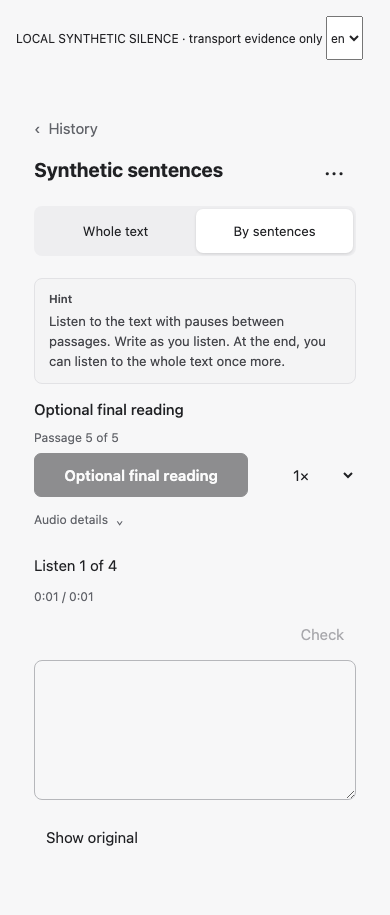
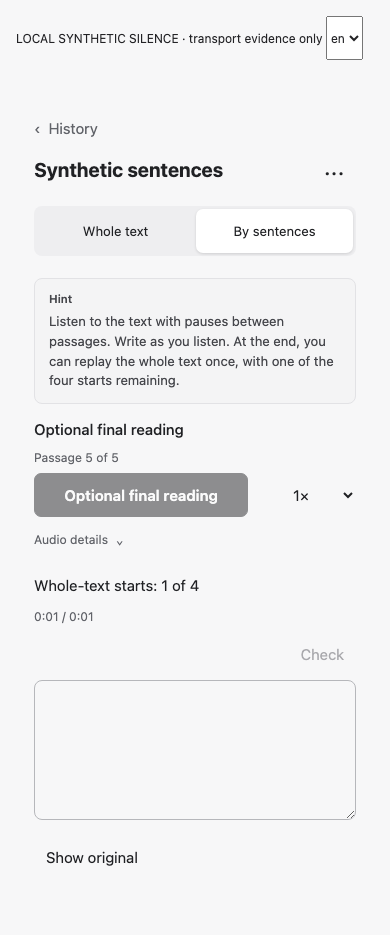
Review dictation playback copy and checked-state controls with real-media coverage

diff --git a/web/tests/dictation_policy_browser.py b/web/tests/dictation_policy_browser.py
@@ -10,7 +10,7 @@ repo=Path(__file__).resolve().parents[2]
 out=repo/'docs/evidence/dictation-focused-ux/policy'
 out.mkdir(parents=True,exist_ok=True)
 with tempfile.TemporaryDirectory(prefix='dictation-policy-') as tmp:
- env=dict(os.environ,GOCACHE='/private/tmp/dictation-playback-go-cache',DICTATION_PLAYBACK_BRIDGE=tmp)
+ env=dict(os.environ,DICTATION_PLAYBACK_BRIDGE=tmp)
  binary=Path(tmp)/'fixture.test'
  subprocess.run(['go','test','-c','-o',str(binary)],cwd=repo/'server',env=env,check=True,capture_output=True)
  def start():
@@ -73,6 +73,23 @@ with tempfile.TemporaryDirectory(prefix='dictation-policy-') as tmp:
    page.wait_for_function("events.some(e=>e.event==='ended')")
    assert len([c for c in page.evaluate('calls') if c['path'].endswith('/check')])==0
    create('network');page.get_by_role('button',name='Prepare audio',exact=True).click();abort_media=True;page.get_by_role('button',name='Play',exact=True).click();expect(page.get_by_role('button',name='Continue',exact=True)).to_be_visible();before=state('network')['playback']['active']['id'];page.get_by_role('button',name='Continue',exact=True).click();assert state('network')['playback']['active']['id']==before;page.wait_for_function("events.some(e=>e.event==='ended')");assert state('network')['playback']['whole_starts']==1
+   create('paused');page.get_by_role('button',name='Prepare audio',exact=True).click()
+   expect(page.get_by_role('button',name='Play',exact=True)).to_be_enabled()
+   paid_before=page.evaluate("calls.filter(c=>c.method==='POST'&&c.path.includes('/audio/')).length")
+   page.get_by_role('button',name='Play',exact=True).click();page.wait_for_function('fixtureAudio.currentTime>.1')
+   paused_id=state('paused')['playback']['active']['id'];page.evaluate('fixtureAudio.pause()')
+   paused_time=page.evaluate('fixtureAudio.currentTime');page.wait_for_timeout(200)
+   assert page.evaluate('fixtureAudio.currentTime')==paused_time
+   expect(page.get_by_role('button',name='Continue',exact=True)).to_be_visible()
+   draft=page.get_by_role('textbox',name='What you heard',exact=True);draft.fill('Pause recovery draft')
+   page.get_by_role('button',name='Continue',exact=True).click();draft.focus()
+   assert state('paused')['playback']['active']['id']==paused_id
+   page.wait_for_function("events.some(e=>e.event==='ended')");expect(draft).to_be_focused()
+   assert state('paused')['playback']['whole_starts']==1
+   page.get_by_role('button',name='History',exact=True).click()
+   page.get_by_role('button',name='Synthetic paused · In progress',exact=True).click()
+   expect(page.get_by_role('textbox',name='What you heard',exact=True)).to_have_value('Pause recovery draft')
+   assert page.evaluate("calls.filter(c=>c.method==='POST'&&c.path.includes('/audio/')).length")==paid_before
    create('sentences');page.get_by_role('button',name='By sentences',exact=True).click();page.get_by_role('button',name='Prepare audio',exact=True).click()
    expect(page.get_by_role('button',name='Play',exact=True)).to_be_enabled()
    prepared=page.evaluate("calls.filter(c=>c.method==='POST'&&c.path.includes('/audio/')).length")

diff --git a/server/dictation_shipping_test.go b/server/dictation_shipping_test.go
@@ -1,0 +1,46 @@
+package main
+
+import (
+	"net/http/httptest"
+	"os"
+	"regexp"
+	"strings"
+	"testing"
+)
+
+// Exercise the served module graph, not merely the root allowlist string.
+func TestDictationServedModuleGraph(t *testing.T) {
+	h := authHandler(t)
+	docker, err := os.ReadFile("Dockerfile")
+	if err != nil {
+		t.Fatal(err)
+	}
+	imports := regexp.MustCompile(`(?:from\s*|import\s*\()\s*['"]\./([^'"]+\.mjs)['"]`)
+	queue := []string{"dictation.mjs", "dictation.css"}
+	seen := map[string]bool{}
+	for len(queue) > 0 {
+		name := queue[0]
+		queue = queue[1:]
+		if seen[name] {
+			continue
+		}
+		seen[name] = true
+		w := httptest.NewRecorder()
+		h.ServeHTTP(w, httptest.NewRequest("GET", "/"+name, nil))
+		if w.Code != 200 || w.Body.Len() == 0 {
+			t.Fatalf("%s: %d", name, w.Code)
+		}
+		if !strings.Contains(string(docker), "web/"+name+" ") {
+			t.Fatalf("not packaged: %s", name)
+		}
+		if strings.HasSuffix(name, ".mjs") && !strings.Contains(w.Header().Get("Content-Type"), "javascript") {
+			t.Fatalf("incorrect MIME: %s", name)
+		}
+		for _, match := range imports.FindAllStringSubmatch(w.Body.String(), -1) {
+			queue = append(queue, match[1])
+		}
+	}
+	if !seen["dictation-playback.mjs"] || !seen["dictation-cache.mjs"] {
+		t.Fatal("incomplete module graph", seen)
+	}
+}

diff --git a/docs/DICTATION-FOCUSED-UX.md b/docs/DICTATION-FOCUSED-UX.md
@@ -1,5 +1,26 @@
 # Focused Dictation UX — versioned playback implementation
 
+## Independent review follow-up (2026-11-17)
+
+Reviewed implementation `ee89d5f816b3cc56e5805666eddb7c7c5eed64ad` against the focused UX and opt-in policy requirements. This follow-up is local only; user visual approval remains required before release, including the provisional top-right Check. No automatic checking was added.
+
+Two issues were reproduced with failing tests and minimally corrected:
+- The counter/exhaustion copy said “listens” although the durable ledger counts authorized **starts**, including canceled or failed playback. All five locales now label starts. Sentence hints qualify the optional final whole replay by the remaining shared four-start allowance rather than promising an unavailable fifth start. The user's whole-mode teaching hint remains intact.
+- A checked policy attempt displayed an enabled Play button although both the player and server reject new playback. The policy action is now disabled on checked attempts (including unnecessary preparation); legacy behavior is unchanged.
+
+Independent executed verification on the follow-up:
+- Full Node suite: **138 passed, zero failures** (original reviewed SHA: 136 passed).
+- Fresh `go test -count=1 ./...`, `go test -race -count=1 ./...`, and `go vet ./...`: passed. The final Go runs took 248.279s and 117.993s respectively on the shared host. A file-write helper's automatic Go lint timed out; explicit gofmt and the full test/race/vet commands subsequently succeeded.
+- Real Chromium / Go-handler policy suite: passed again. Added real HTMLMediaElement pause → Continue with unchanged reservation/one start, stable paused position, textarea focus through natural end, History return with preserved draft, and unchanged explicit preparation count. Existing four natural whole ends/fifth rejection, restart, network/autoplay recovery, tab fencing, timed sentence chain/final-once, Range and five-locale captures also passed. Only synthetic silent WAVs and isolated fixture identities were used.
+- Presentation correction, focused lifecycle, five-locale preparation geometry, and legacy real-media browser suites: all passed with zero page errors. These are explicitly legacy fixtures, not policy acceptance substitutes. Keyboard Check stayed explicit.
+- New Go served-module-graph test traverses Dictation imports through the real public handler and checks MIME and Docker packaging. Old `e8ed89` HTML is byte-identical to current HTML; booting it with current modules in the actual local signed-out app produced 14 successful module responses and zero page errors. This is a guest/bootstrap compatibility check, not authenticated production acceptance.
+- Visually inspected regenerated policy Russian whole and French sentence screenshots: persistent compact hints, no prominent paid line or footer Check, visible provisional header Check, no horizontal clipping. The full-page mobile screenshots extend beyond the viewport; no claim is made that every control fits above the fold. Cost/privacy and unchanged $10 shared monthly budget remain under closed About audio.
+
+The reviewed server retains legacy absent-policy requests, immutable opt-in versions, independent draft/playback revisions, four-start admission, resumable fenced leases, bounded 256-reservation history, owner/revocation checks, and failed-write/no-success behavior. Direct cached media and OS pause remain possible: this is admission policy, not DRM. Old **clients** writing to this server preserve the policy fields; rolling back to a pre-policy **server binary** is not supported and could discard unknown JSON fields on a later write. Retain the policy-aware server when rolling back the web UI.
+
+Integration: apply the three candidate commits in order (`eb20d83`, `41c7765`, `ee89d5f`) plus this review follow-up; do not copy whole files from this branch over combined `277d7c3`. Preserve combined/Profile changes in `web/dictation.mjs`, localization, `server/learning.go`, static routes and Docker module lists. The common ancestor with combined is `b52c48d`, not `e8ed89`; shared files require semantic conflict review and a fresh combined suite. Combined/Profile worktrees and the original dirty worktree were not modified. No provider inference, credentials, personal drafts, Xcode, remote push or deployment were used.
+
+
 ## Current implementation (2026-11-17)
 
 This section supersedes the presentation-only status below. Playback policy **1** is implemented and locally verified in this worktree. Full Go unit/race/vet and actual Chromium media verification passed through the parent tool environment after the coding subprocess sandbox blocked listeners and Chromium. New policy evidence is in `docs/evidence/dictation-focused-ux/policy/`; historical evidence below belongs to the earlier presentation implementation.
